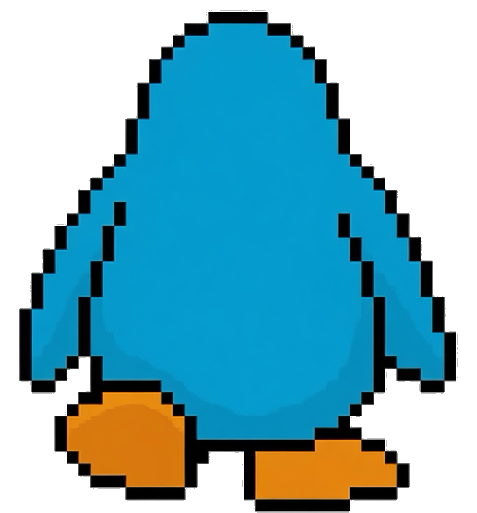
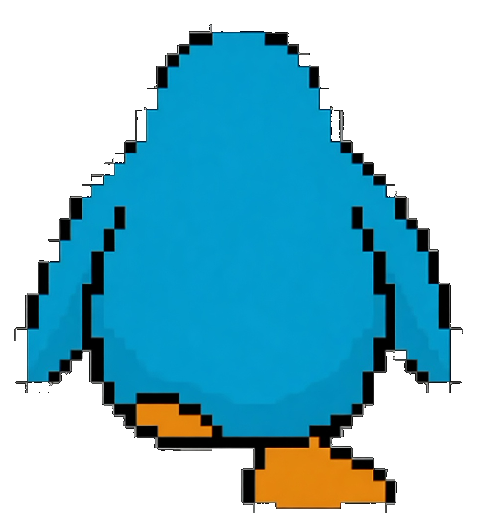
fix: back-walk feet step under body, not toward camera
Regenerate up-1/up-2 so the raised foot sits in front of the penguin
(partially occluded by the body, away from the camera) while the planted
foot stays fully visible at the bottom. up-1 is a mirror of the Imagine
up-2 plate for alternating strides.

Changed region(s): [[0.0294, 0.0, 0.9686, 1.0]]

diff --git a/scripts/reference/penguin/README.md b/scripts/reference/penguin/README.md
@@ -22,6 +22,13 @@ When the player stops, scenes set texture frame **0** — standing idle, not a
 mid-walk hop. Walk anims cycle frames **1↔2** so feet truly alternate (never
 plant + one-foot hop, which reads as sliding on one foot).
 
+## Back walk depth (up-1 / up-2)
+
+Back-facing walk plates step **away from the camera**: the raised foot sits
+**in front of** the penguin (partially hidden under the body), and the planted
+foot is fully visible at the bottom (toward the camera). Sources:
+`imagine-back-walk-v2/` (up-2 from Imagine; up-1 is a horizontal mirror).
+
 ## Side facing (v3)
 
 Side idle + walk plates were regenerated with Grok Imagine using the current
